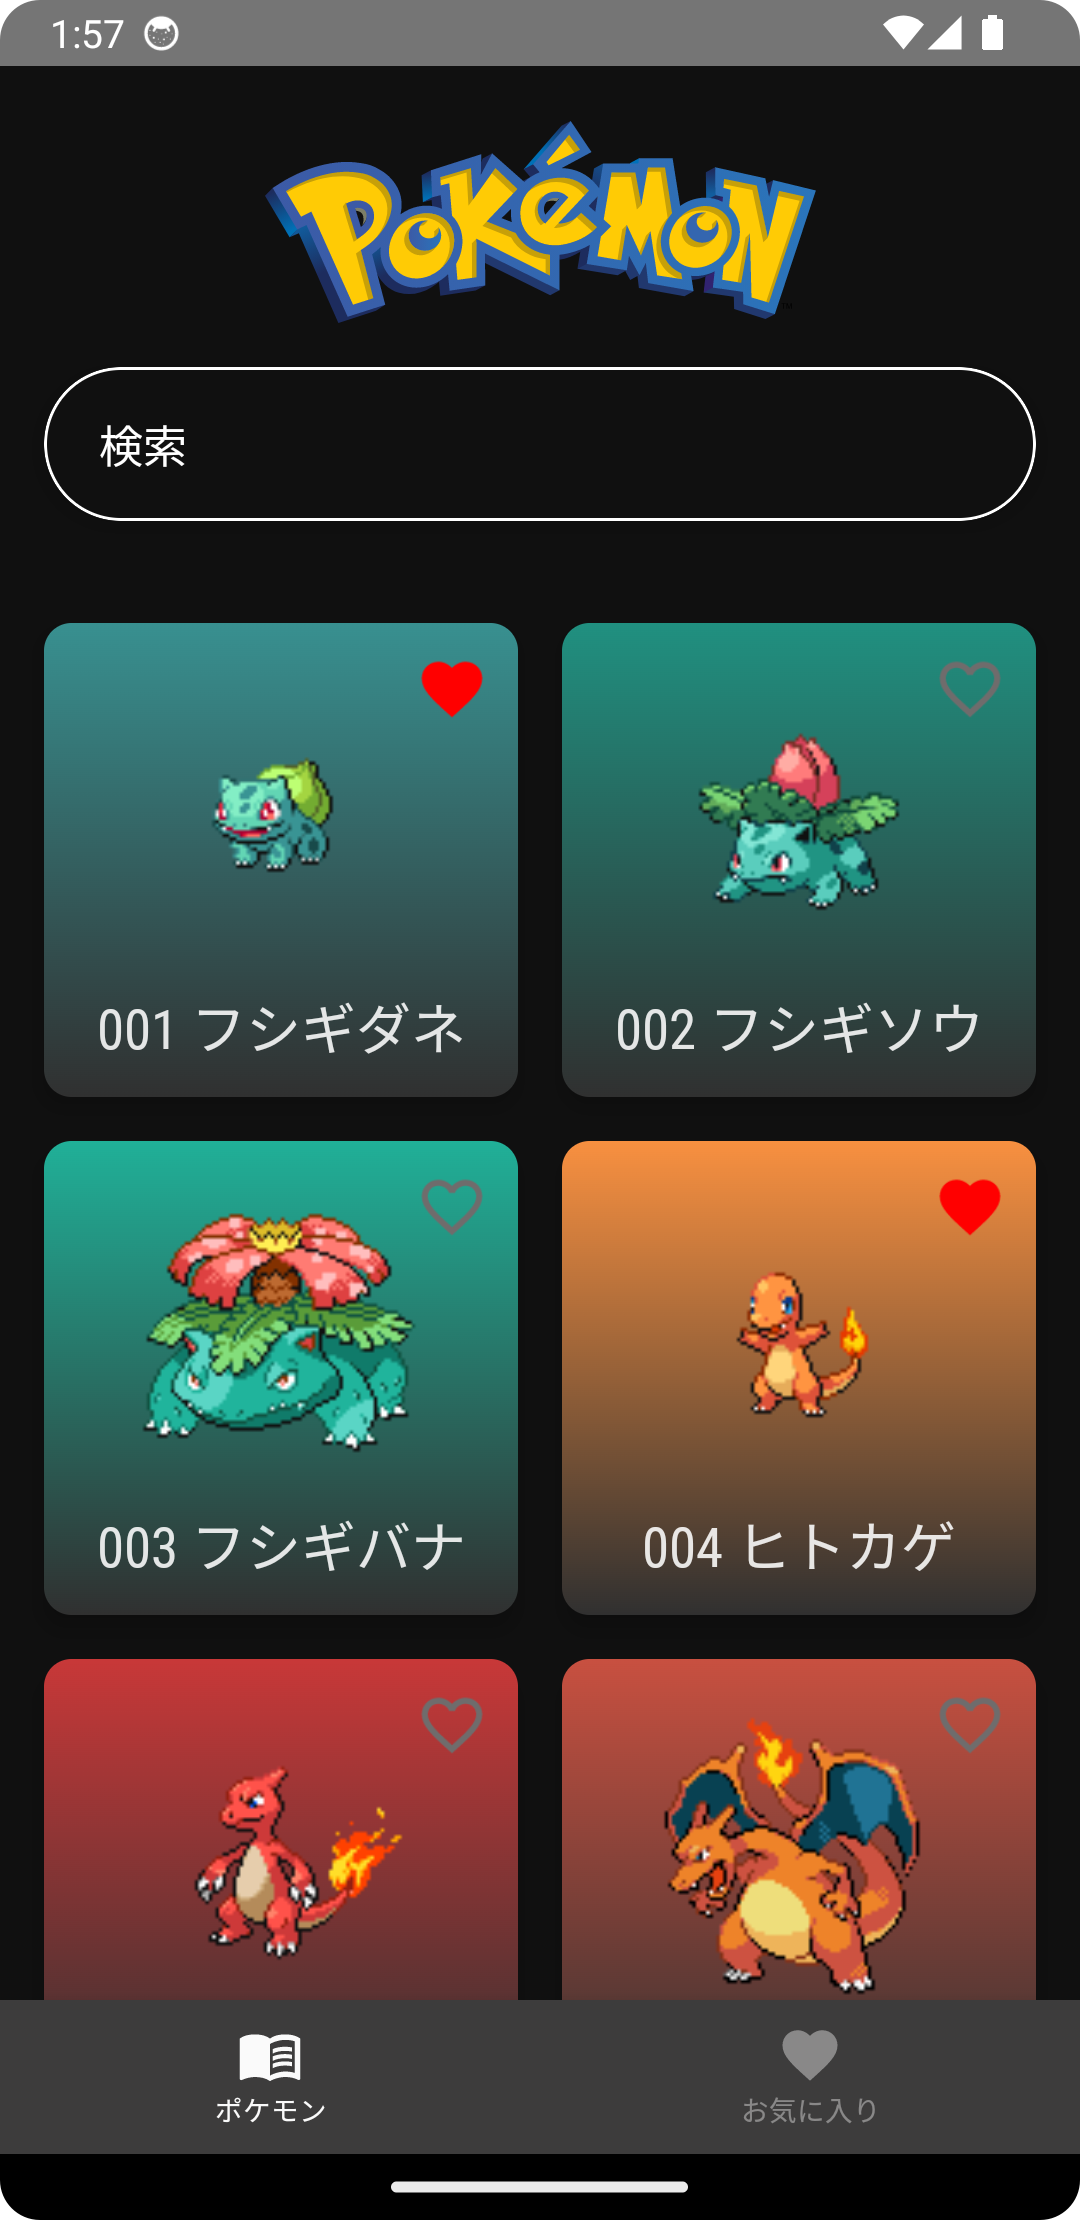
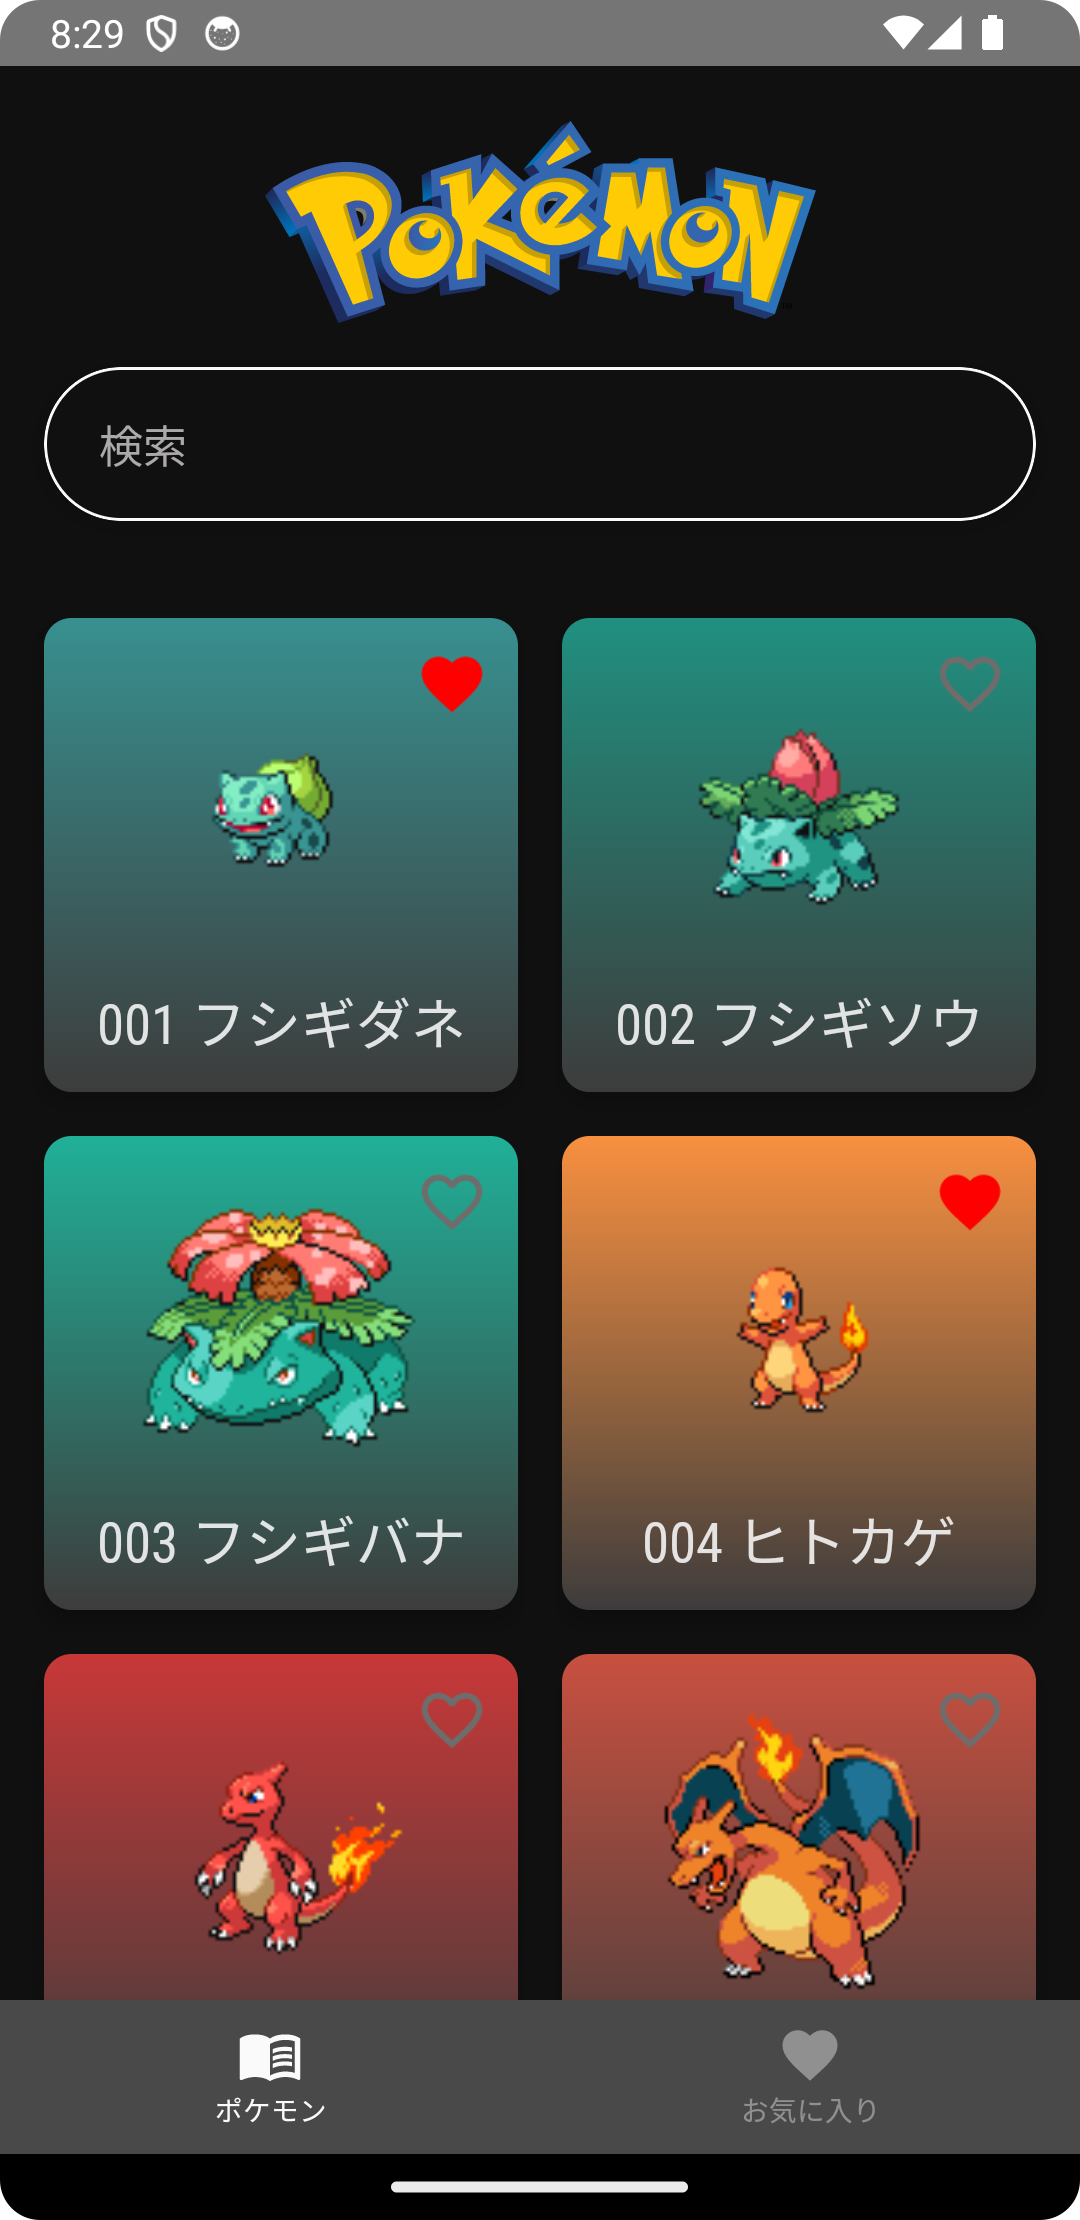
[Update] Modify UI
- Modify UI and colorset
- Update screenshots

diff --git a/app/src/main/java/levilin/pokemon/dictionary/ui/theme/Theme.kt b/app/src/main/java/levilin/pokemon/dictionary/ui/theme/Theme.kt
@@ -5,22 +5,25 @@ import androidx.compose.material.MaterialTheme
 import androidx.compose.material.darkColors
 import androidx.compose.material.lightColors
 import androidx.compose.runtime.Composable
-import androidx.compose.ui.graphics.Color
 
 private val DarkColorPalette = darkColors(
-    primary = Color.Yellow,
-    background = Color(0xFF101010),
-    onBackground = Color.White,
-    surface = Color(0xFF303030),
-    onSurface = Color.White
+    primary = HpColor,
+    background = Black,
+    onBackground = LightGray,
+    surface = DarkGray,
+    onSurface = MediumGray,
+    onPrimary = DarkRed,
+    onSecondary = DarkMint,
 )
 
 private val LightColorPalette = lightColors(
     primary = MediumGray,
     background = LightBlue,
-    onBackground = Color.Black,
-    surface = Color.White,
-    onSurface = Color.Black
+    onBackground = Black,
+    surface = LightGray,
+    onSurface = MediumDarkGray,
+    onPrimary = LightRed,
+    onSecondary = LightMint,
 )
 
 @Composable

diff --git a/app/src/main/java/levilin/pokemon/dictionary/ui/theme/Color.kt b/app/src/main/java/levilin/pokemon/dictionary/ui/theme/Color.kt
@@ -4,12 +4,17 @@ import androidx.compose.material.Colors
 import androidx.compose.runtime.Composable
 import androidx.compose.ui.graphics.Color
 
+val LightRed = Color(0xFFF0B6B6)
+val DarkRed = Color(0xFFFD8080)
+val LightMint = Color(0xFFC3F0B6)
+val DarkMint = Color(0xFF74CC5A)
 val LightBlue = Color(0xFFBAC7FF)
 val LightGray = Color(0xFFFAFAFA)
 val LightMediumGray = Color(0xFFD1CFCF)
 val MediumGray = Color(0xFFACA9A9)
 val MediumDarkGray = Color(0xFF6F6C6C)
 val DarkGray = Color(0xFF3D3C3C)
+val Black = Color(0xFF101010)
 
 val HpColor = Color(0xFFD3A124)
 val AtkColor = Color(1f, 0f, 0f, 0.66f)

diff --git a/app/src/main/java/levilin/pokemon/dictionary/ui/screen/list/component/SearchBar.kt b/app/src/main/java/levilin/pokemon/dictionary/ui/screen/list/component/SearchBar.kt
@@ -123,11 +123,11 @@ fun SearchBar(
         )
         if (isHintDisplayed) {
             Text(
-                text = hint,
-                color = MaterialTheme.colors.onBackground,
                 modifier = Modifier
                     .align(Alignment.CenterStart)
                     .padding(horizontal = 20.dp),
+                text = hint,
+                color = MaterialTheme.colors.onSurface,
                 textAlign = TextAlign.Start
             )
         }
